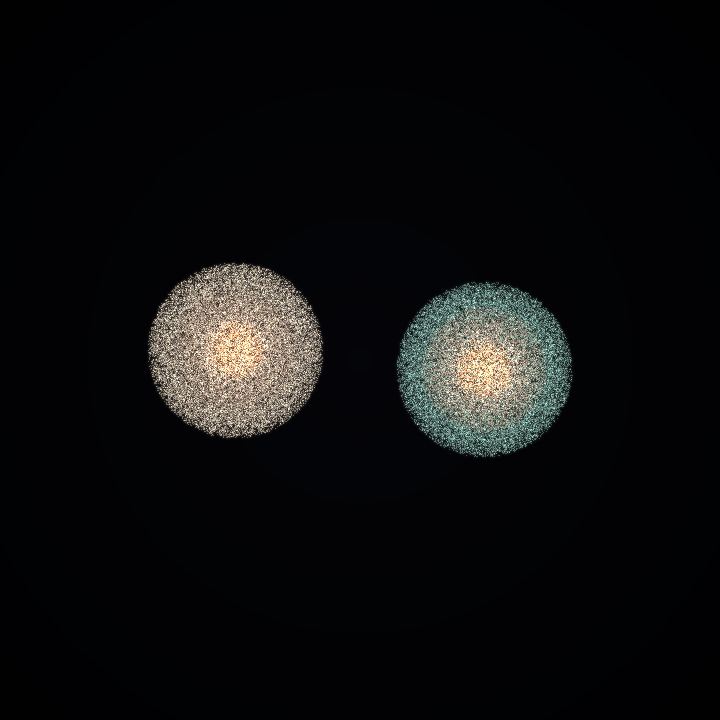
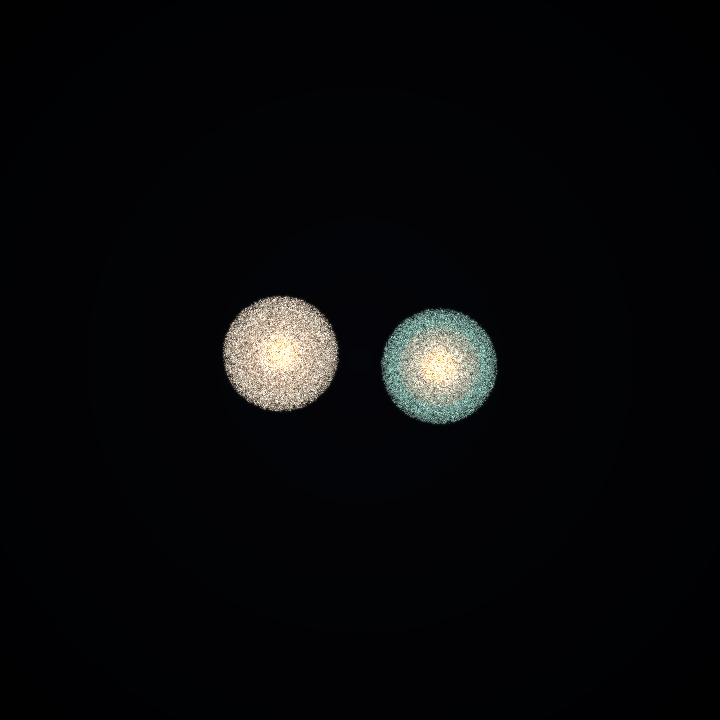
Improve planet impact physics

Changed region(s): [[0.1833, 0.3667, 0.4889, 0.6111], [0.5194, 0.3972, 0.7944, 0.6417]]

diff --git a/src/twingalaxynet/colliders.py b/src/twingalaxynet/colliders.py
@@ -37,12 +37,15 @@ class ColliderConfig:
     radius: float = 1.0
     center_offset: float = 2.45
     impact_parameter: float = 0.52
-    approach_speed: float = 0.095
+    approach_speed: float = 0.065
     spin_rate: float = 0.020
-    gravity_strength: float = 0.0009
+    gravity_strength: float = 0.0025
     spring_strength: float = 0.10
     damping: float = 0.06
     shock_strength: float = 0.46
+    contact_restitution: float = 0.0
+    contact_friction: float = 0.48
+    contact_floor: float = 1.38
     heat_decay: float = 0.985
     dtype: torch.dtype = torch.float32
     seed: int = 19
@@ -176,6 +179,7 @@ class BodyCollisionSimulation:
             center_acc = self._center_acceleration()
             self.center_velocity = self.center_velocity + dt * center_acc
             self.center_position = self.center_position + dt * self.center_velocity
+            self._resolve_center_contact()
             shock = self.impact_strength()
 
             for shard in self.shards:
@@ -283,11 +287,64 @@ class BodyCollisionSimulation:
         direction = delta / radius
         gravity = self.config.gravity_strength / radius**2
         overlap = torch.clamp(2.0 * self.config.radius - radius, min=0.0)
-        contact = 0.020 * overlap if self.config.kind == "planet" else 0.006 * overlap
+        contact = 0.022 * overlap if self.config.kind == "planet" else 0.006 * overlap
         acc = torch.zeros_like(self.center_position)
         acc[0] = -gravity * direction + contact * direction
         acc[1] = gravity * direction - contact * direction
         return acc
+
+    def _resolve_center_contact(self) -> None:
+        """Apply an equal-mass inelastic contact impulse to overlapping bodies.
+
+        This is not a rigid-body solver. It is a conservative correction that
+        prevents planet cores from numerically passing through each other while
+        still allowing deformation, heating, and debris ejection.
+        """
+
+        delta = self.center_position[1] - self.center_position[0]
+        separation = torch.clamp(torch.linalg.norm(delta), min=1e-6)
+        normal = delta / separation
+        overlap = 2.0 * self.config.radius - separation
+        if overlap <= 0.0:
+            return
+
+        contact_trigger = (
+            1.62 * self.config.radius
+            if self.config.kind == "planet"
+            else 1.88 * self.config.radius
+        )
+        if separation > contact_trigger:
+            return
+
+        if self.config.kind == "planet":
+            floor = self.config.contact_floor * self.config.radius
+            correction = torch.clamp(floor - separation, min=0.0)
+            self.center_position[0] -= 0.5 * correction * normal
+            self.center_position[1] += 0.5 * correction * normal
+
+        relative_velocity = self.center_velocity[1] - self.center_velocity[0]
+        normal_speed = torch.sum(relative_velocity * normal)
+        if normal_speed < 0.0:
+            restitution = (
+                self.config.contact_restitution
+                if self.config.kind == "planet"
+                else 0.0
+            )
+            impulse = -0.5 * (1.0 + restitution) * normal_speed * normal
+            self.center_velocity[0] -= impulse
+            self.center_velocity[1] += impulse
+
+        relative_velocity = self.center_velocity[1] - self.center_velocity[0]
+        tangent = relative_velocity - torch.sum(relative_velocity * normal) * normal
+        friction = self.config.contact_friction if self.config.kind == "planet" else 0.18
+        self.center_velocity[0] += 0.5 * friction * tangent
+        self.center_velocity[1] -= 0.5 * friction * tangent
+
+        barycentric_velocity = torch.mean(self.center_velocity, dim=0, keepdim=True)
+        impact_damping = 0.18 if self.config.kind == "planet" else 0.04
+        self.center_velocity = barycentric_velocity + (
+            self.center_velocity - barycentric_velocity
+        ) * (1.0 - impact_damping * self.impact_strength())
 
     def _particle_acceleration(
         self,
@@ -302,6 +359,7 @@ class BodyCollisionSimulation:
         spring = self.config.spring_strength * (1.0 - 0.72 * shock)
         acceleration = spring * (target - shard.position)
         acceleration += self.config.damping * (body_velocity - shard.velocity)
+        acceleration += self._center_gravity(shard.position, centers)
 
         mid = torch.mean(centers, dim=0)
         axis = centers[1] - centers[0]
@@ -321,7 +379,9 @@ class BodyCollisionSimulation:
         )
         turbulence = torch.sin(7.0 * shard.anchor[:, 0:1] + 5.0 * self.time)
         shock_acc = self.config.shock_strength * shock * contact_weight[:, None]
-        acceleration += shock_acc * (0.95 * radial + 0.22 * turbulence * plume)
+        radial_push = 0.55 if self.config.kind == "planet" else 0.95
+        swirl_push = 0.16 if self.config.kind == "planet" else 0.22
+        acceleration += shock_acc * (radial_push * radial + swirl_push * turbulence * plume)
         if self.config.kind == "star":
             acceleration += 0.24 * shock_acc * axis[None, :] * torch.sign(
                 torch.sum(from_mid * axis[None, :], dim=1, keepdim=True)
@@ -330,6 +390,22 @@ class BodyCollisionSimulation:
         heat_source = (0.18 if self.config.kind == "planet" else 0.32) * shock
         heat_source = heat_source * contact_weight.to(torch.float32)
         return acceleration, heat_source
+
+    def _center_gravity(
+        self,
+        position: torch.Tensor,
+        centers: torch.Tensor,
+    ) -> torch.Tensor:
+        """Apply softened gravity from both body centers to tracer particles."""
+
+        softening = 0.34 if self.config.kind == "planet" else 0.55
+        delta = centers[None, :, :] - position[:, None, :]
+        radius2 = torch.sum(delta * delta, dim=2) + softening**2
+        inv_radius3 = torch.rsqrt(radius2) ** 3
+        strength = self.config.gravity_strength * (
+            0.55 if self.config.kind == "planet" else 0.38
+        )
+        return strength * torch.sum(delta * inv_radius3[:, :, None], dim=1)
 
     def _assert_physical(self) -> None:
         if not torch.isfinite(self.center_position).all():

diff --git a/src/twingalaxynet/app.py b/src/twingalaxynet/app.py
@@ -79,11 +79,11 @@ class GalaxyApp:
                 0.52 if self.args.impact_parameter is None else self.args.impact_parameter
             ),
             approach_speed=(
-                (0.095 if self.args.mode == "planet" else 0.090)
+                (0.065 if self.args.mode == "planet" else 0.090)
                 if self.args.impact_speed is None
                 else self.args.impact_speed
             ),
-            gravity_strength=0.0010 if self.args.mode == "planet" else 0.00055,
+            gravity_strength=0.0025 if self.args.mode == "planet" else 0.00055,
             spring_strength=0.115 if self.args.mode == "planet" else 0.060,
             shock_strength=0.54 if self.args.mode == "planet" else 0.34,
             runaway_speed=3.0 if self.args.mode == "planet" else 2.4,
@@ -95,7 +95,9 @@ class GalaxyApp:
 
         if self.args.mode == "galaxy":
             return 72.0
-        return 4.6
+        if self.args.mode == "planet":
+            return 7.2
+        return 6.8
 
     def _default_collider_dt(self) -> float:
         """Return mode-specific collider time step."""

diff --git a/scripts/make_gallery.py b/scripts/make_gallery.py
@@ -69,11 +69,11 @@ def make_planet() -> None:
         ),
         devices="auto",
     )
-    sim.step(34)
+    sim.step(40)
     frame = make_frame_from_collider(
         sim,
         resolution=720,
-        extent=4.1,
+        extent=6.2,
         yaw_deg=-12.0,
         pitch_deg=18.0,
         bloom=True,

diff --git a/README.md b/README.md
@@ -23,7 +23,8 @@ real-time visuals.
   such as Toomre & Toomre (1972).
 - Planet and star modes are deformable tracer-particle visual models, not full
   SPH or radiation-hydrodynamic solvers. They include center gravity, elastic
-  restoring forces, impact heating, and debris/plasma plumes.
+  restoring forces, inelastic contact impulses, impact heating, and
+  debris/plasma plumes.
 - The galaxy integrator uses a kick-drift-kick leapfrog scheme. Collider modes
   use semi-implicit particle updates for stable real-time visuals.
 - Galaxy state uses `float64` by default because kpc/Myr dynamics spans large
@@ -81,6 +82,7 @@ PYTHONPATH=src python3 -m twingalaxynet \
   --mode planet \
   --impact-speed 0.16 \
   --body-offset 1.7 \
+  --extent 7.2 \
   --particles 70000
 ```
 
@@ -146,6 +148,14 @@ Matplotlib fallback with `--display matplotlib`:
 - `Q`: quit
 
 ## Visual Themes
+
+Planet/star mode knobs:
+
+- `--impact-speed`: approach speed in body radii per time unit.
+- `--impact-parameter`: off-center collision offset in body radii.
+- `--body-offset`: initial center offset in body radii.
+- `--extent`: visible half-width. Planet mode defaults to a wider `7.2`
+  Earth-radius view so ejecta and post-impact motion stay in frame.
 
 - `natural`: balanced optical look with blue young stars and warm older stars.
 - `hubble`: high-contrast optical palette.
